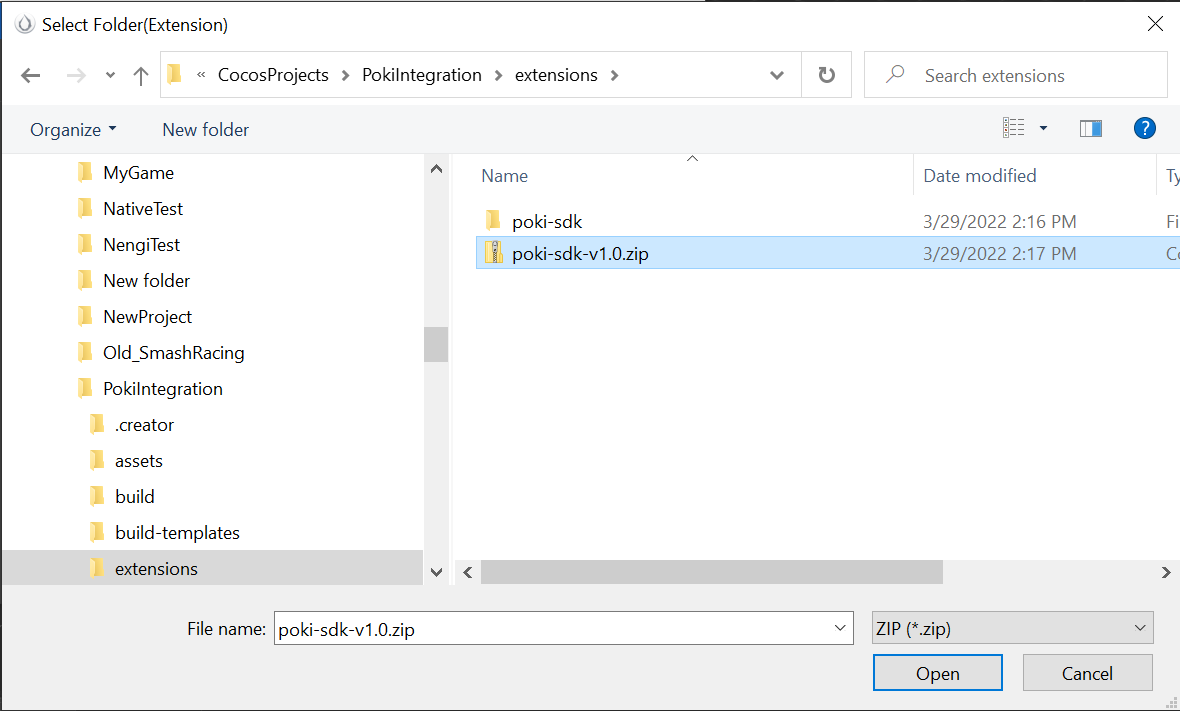
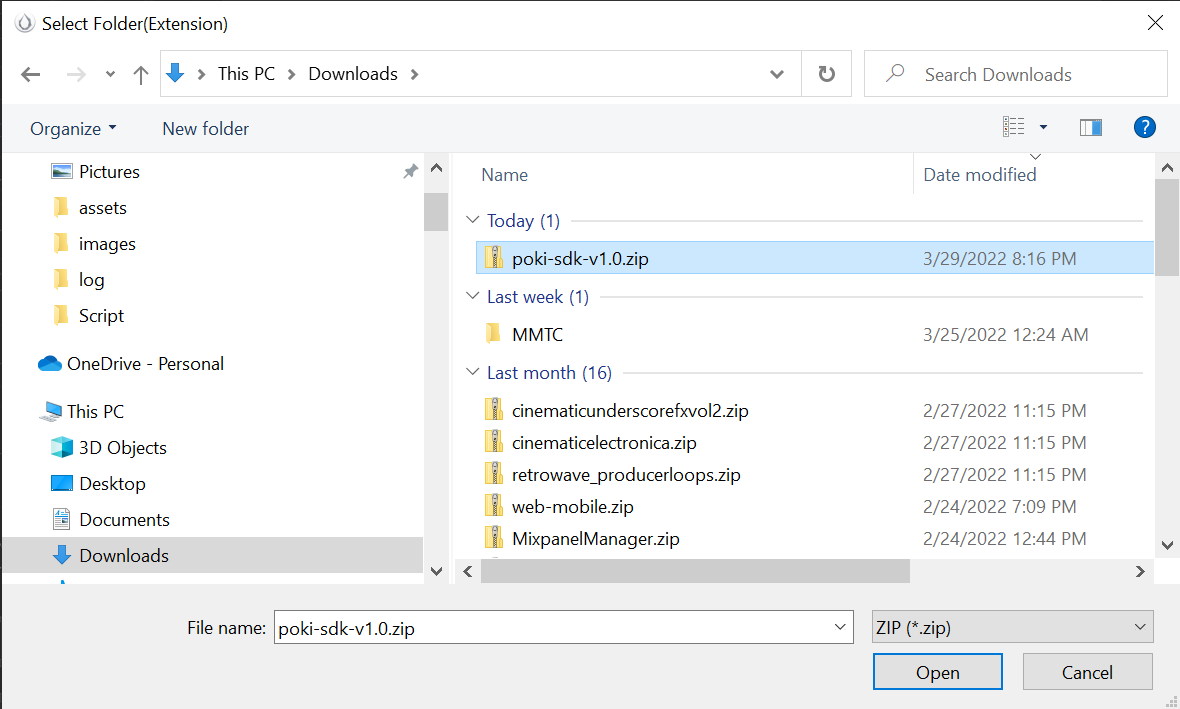
adding the pick-archive step to readme.md.

diff --git a/readme.md b/readme.md
@@ -20,10 +20,7 @@ This is the easiest way to get started with the extension.
 //screenshots of the store and install process. 
 
 ### From Source/Release
-Download the extension zip file from 
-```
-https://github.com/vkbsb/cocos-creator-poki-sdk/releases/download/FirstRelease/poki-sdk-v1.0.zip
-```
+Download the extension archive [poki-sdk-v1.0.zip](https://github.com/vkbsb/cocos-creator-poki-sdk/releases/download/FirstRelease/poki-sdk-v1.0.zip). 
 
 Or download the source code as a zip file.  
 ``` 
@@ -34,6 +31,8 @@ git clone https://github.com/vkbsb/cocos-creator-poki-sdk
 ![extension-manager-open](./docs/images/extension-manager-launch.png)
 2. Switch to project tab and click on add extension button
 ![extension-add](./docs/images/import_extension_project.png)
+3. browse to the [poki-sdk-v1.0.zip](https://github.com/vkbsb/cocos-creator-poki-sdk/releases/download/FirstRelease/poki-sdk-v1.0.zip) file you have downloaded and click open. 
+![pick-extension-archive](./docs/images/pick_extension_zip.png)
 
 
 ## 2.Enable extension
